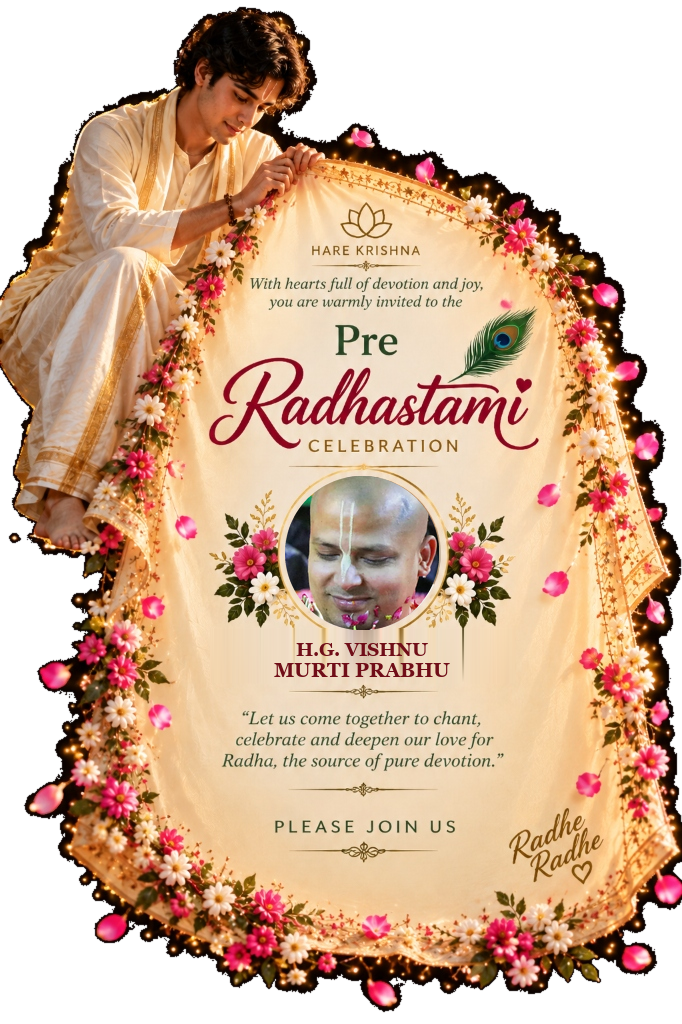
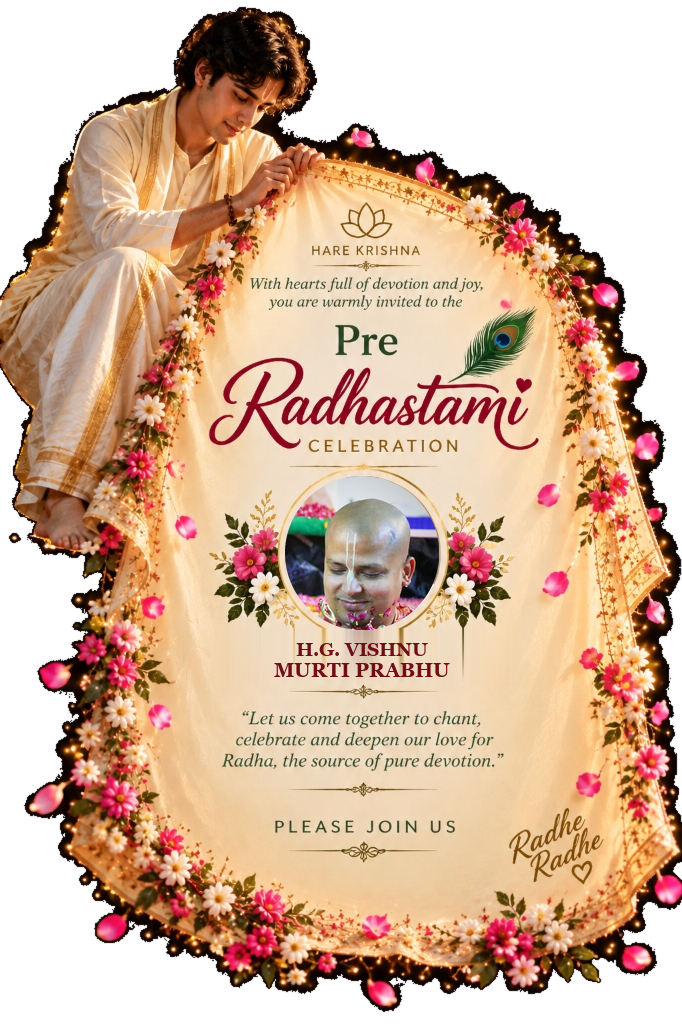
Add Abhaya Hari Prabhu, Madan Gopal Prabhu, and fix Vishnu Murti crop

Changed region(s): [[0.4003, 0.4375, 0.6466, 0.625]]

diff --git a/script.js b/script.js
@@ -86,6 +86,66 @@ const DEVOTEE_REGISTRY = {
     photo: 'images/vishnu_murti_prabhu.jpg',
     card: 'images/radharani_dupatta_vishnu_murti.png'
   },
+  'h.g.abhaya_hari_prabhu': {
+    name: 'H.G. ABHAYA HARI PRABHU',
+    photo: 'images/abhaya_hari_prabhu.jpg',
+    card: 'images/radharani_dupatta_abhaya_hari.png'
+  },
+  'abhaya_hari_prabhu': {
+    name: 'H.G. ABHAYA HARI PRABHU',
+    photo: 'images/abhaya_hari_prabhu.jpg',
+    card: 'images/radharani_dupatta_abhaya_hari.png'
+  },
+  'h.g.abhaya_hari': {
+    name: 'H.G. ABHAYA HARI PRABHU',
+    photo: 'images/abhaya_hari_prabhu.jpg',
+    card: 'images/radharani_dupatta_abhaya_hari.png'
+  },
+  'abhaya_hari': {
+    name: 'H.G. ABHAYA HARI PRABHU',
+    photo: 'images/abhaya_hari_prabhu.jpg',
+    card: 'images/radharani_dupatta_abhaya_hari.png'
+  },
+  'h.g.madan_gopal_prabhu': {
+    name: 'H.G. MADAN GOPAL PRABHU',
+    photo: 'images/madan_gopal_prabhu.jpg',
+    card: 'images/radharani_dupatta_madan_gopal.png'
+  },
+  'madan_gopal_prabhu': {
+    name: 'H.G. MADAN GOPAL PRABHU',
+    photo: 'images/madan_gopal_prabhu.jpg',
+    card: 'images/radharani_dupatta_madan_gopal.png'
+  },
+  'h.g.madan_gopal': {
+    name: 'H.G. MADAN GOPAL PRABHU',
+    photo: 'images/madan_gopal_prabhu.jpg',
+    card: 'images/radharani_dupatta_madan_gopal.png'
+  },
+  'madan_gopal': {
+    name: 'H.G. MADAN GOPAL PRABHU',
+    photo: 'images/madan_gopal_prabhu.jpg',
+    card: 'images/radharani_dupatta_madan_gopal.png'
+  },
+  'h.g.vishnu_murti_prabhu': {
+    name: 'H.G. VISHNU MURTI PRABHU',
+    photo: 'images/vishnu_murti_prabhu.jpg',
+    card: 'images/radharani_dupatta_vishnu_murti.png'
+  },
+  'vishnu_murti_prabhu': {
+    name: 'H.G. VISHNU MURTI PRABHU',
+    photo: 'images/vishnu_murti_prabhu.jpg',
+    card: 'images/radharani_dupatta_vishnu_murti.png'
+  },
+  'h.g.vishnu_murti': {
+    name: 'H.G. VISHNU MURTI PRABHU',
+    photo: 'images/vishnu_murti_prabhu.jpg',
+    card: 'images/radharani_dupatta_vishnu_murti.png'
+  },
+  'vishnu_murti': {
+    name: 'H.G. VISHNU MURTI PRABHU',
+    photo: 'images/vishnu_murti_prabhu.jpg',
+    card: 'images/radharani_dupatta_vishnu_murti.png'
+  },
   'h.g.amitasan_prabhu': {
     name: 'H.G. AMITASAN PRABHU',
     photo: 'images/amitasan_prabhu.jpg',

diff --git a/process_batch3.py b/process_batch3.py
@@ -27,6 +27,7 @@ draw_mask.ellipse((0, 0, size * 4, size * 4), fill=255)
 mask = mask.resize((size, size), Image.Resampling.LANCZOS)
 
 devotees = [
+    # 1. Recropped Vishnu Murti (wider, not overcropped, full head + tilak)
     {
         'name': 'H.G. VISHNU MURTI PRABHU',
         'line1': 'H.G. VISHNU',
@@ -34,18 +35,30 @@ devotees = [
         'id': 'vishnu_murti',
         'img_path': r'C:\Users\pc\.gemini\antigravity\brain\ab98e414-96f1-47f0-bd3d-25b94e55a072\.user_uploaded\media_1789627148037.jpg',
         'crop_cx': 0.58,
-        'crop_cy': 0.44,
-        'crop_scale': 0.50
+        'crop_cy': 0.38,
+        'crop_scale': 0.70
     },
+    # 2. HG Abhaya Hari Prabhu (Blowing Shankha)
     {
-        'name': 'H.G. AMITASAN PRABHU',
-        'line1': 'H.G. AMITASAN',
-        'line2': 'PRABHU',
-        'id': 'amitasan',
-        'img_path': r'C:\Users\pc\.gemini\antigravity\brain\ab98e414-96f1-47f0-bd3d-25b94e55a072\.user_uploaded\media_1789627239985.jpg',
-        'crop_cx': 0.59,
-        'crop_cy': 0.15,
-        'crop_scale': 0.22
+        'name': 'H.G. ABHAYA HARI PRABHU',
+        'line1': 'H.G. ABHAYA',
+        'line2': 'HARI PRABHU',
+        'id': 'abhaya_hari',
+        'img_path': r'C:\Users\pc\.gemini\antigravity\brain\ab98e414-96f1-47f0-bd3d-25b94e55a072\.user_uploaded\media_1789627791804.jpg',
+        'crop_cx': 0.60,
+        'crop_cy': 0.40,
+        'crop_scale': 0.65
+    },
+    # 3. HG Madan Gopal Prabhu (Looking down with glasses - wider crop so clearly recognizable)
+    {
+        'name': 'H.G. MADAN GOPAL PRABHU',
+        'line1': 'H.G. MADAN',
+        'line2': 'GOPAL PRABHU',
+        'id': 'madan_gopal',
+        'img_path': r'C:\Users\pc\.gemini\antigravity\brain\ab98e414-96f1-47f0-bd3d-25b94e55a072\.user_uploaded\media_1789627955685.jpg',
+        'crop_cx': 0.49,
+        'crop_cy': 0.38,
+        'crop_scale': 0.72
     }
 ]
 
@@ -112,6 +125,6 @@ with open(script_path, 'w', encoding='utf-8') as f:
     f.write(code)
 
 subprocess.run(['git', 'add', '.'], cwd=base_dir, check=True)
-subprocess.run(['git', 'commit', '-m', 'Add personalized cards for HG Vishnu Murti Prabhu and HG Amitasan Prabhu'], cwd=base_dir, check=True)
+subprocess.run(['git', 'commit', '-m', 'Add Abhaya Hari Prabhu, Madan Gopal Prabhu, and fix Vishnu Murti crop'], cwd=base_dir, check=True)
 subprocess.run(['git', 'push', 'origin', 'main'], cwd=base_dir, check=True)
-print('SUCCESS_BOTH_PUSHED')
+print('SUCCESS_ALL_PUSHED')
